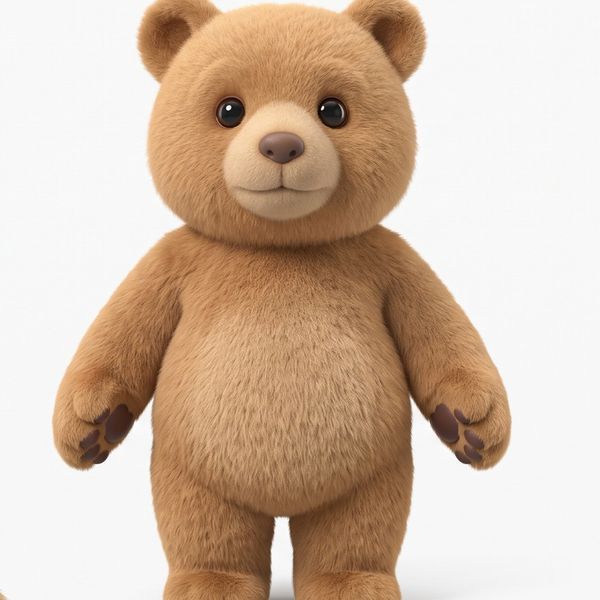
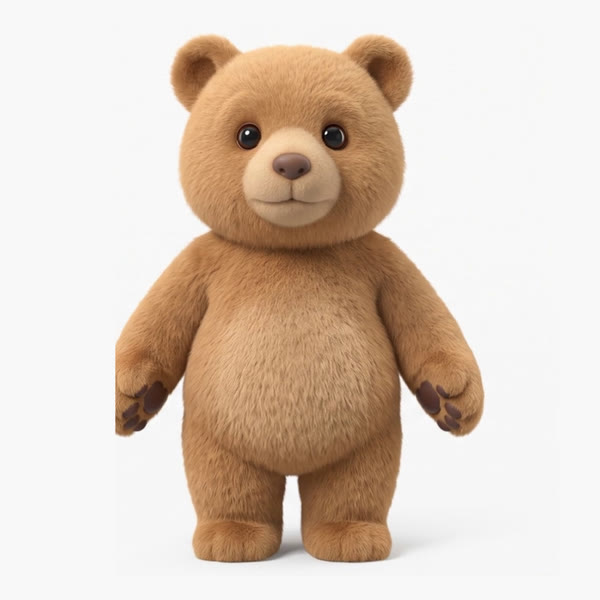
ABC-Bilder: Bär, Katze und Elefant ganz zu sehen (aus den Shorts), altes Kätzchen-Bild entfernt, v18
Claude-Session: https://claude.ai/code/session_017pNMCfqETpozeZAJSfi35U

diff --git a/index.html b/index.html
@@ -8,7 +8,7 @@
 <link rel="stylesheet" href="schriften/schriften.css">
 <link rel="stylesheet" href="gemeinsam.css">
 <style>
-/* Startseite: Intro-Video, dann Elas Zimmer mit Logo, Ela (mit Begrüßung) und Kätzchen, darunter große bunte Kacheln für jeden Bereich */
+/* Startseite: Intro-Video, dann Elas Zimmer mit Logo, Ela (mit Begrüßung), darunter große bunte Kacheln für jeden Bereich */
 #intro{position:fixed;inset:0;z-index:60;background:#f6dccb;display:flex;align-items:center;justify-content:center}
 #intro video{width:100%;height:100%;object-fit:cover}
 @media (orientation:portrait){#intro video{height:64vh}}
@@ -119,7 +119,7 @@
   <footer class="fuss">
     <p data-t="f_safe"></p>
     <p><a href="info.html" data-t="f_parents"></a></p>
-    <p class="version">v17</p>
+    <p class="version">v18</p>
   </footer>
 </div>
 <script src="gemeinsam.js"></script>
@@ -128,7 +128,7 @@
 document.querySelectorAll(".tile.soon").forEach(tile => tile.addEventListener("click", e => {
   e.preventDefault(); say(t("home_soon", { x: t(tile.dataset.soon) }));
 }));
-/* Im Oktober: Hexen-Ela und Kätzchen mit Hexenhut (Halloween-Look), sonst die normale Ela */
+/* Im Oktober: Hexen-Ela (Halloween-Look), sonst die normale Ela */
 const halloween = new Date().getMonth() === 9;
 const HALLO = halloween ? "hw_hello" : "home_hello";
 let elaClip = null;
@@ -149,7 +149,7 @@ if (halloween) {
 const n = sterne();
 if (n > 0) say(t("home_stars", { n }));
 
-/* Ela und ihr Kätzchen sprechen, wenn man sie antippt */
+/* Ela spricht, wenn man sie antippt */
 function hop(el){ el.classList.remove("hop"); void el.offsetWidth; el.classList.add("hop"); }
 document.getElementById("ela-friend").onclick = e => {
   hop(e.currentTarget); say(t(HALLO));

diff --git a/daten.js b/daten.js
@@ -25,7 +25,7 @@ const THEMEN = [
    mit diesem Buchstaben aus THEMEN (z. B. B: Bear + Bat). Siehe karten(L). */
 const ABC_WOERTER = {
   A:{en:"Apple",de:"Apfel",tr:"Elma",foto:"bilder/abc/A-Apple.jpg"}, B:{en:"Bear",de:"Bär",tr:"Ayı",foto:"bilder/abc/B-Bear.jpg"},
-  C:{en:"Cat",de:"Katze",tr:"Kedi",foto:"bilder/katze.jpg"}, D:{en:"Dog",de:"Hund",tr:"Köpek",foto:"bilder/abc/D-Dog.jpg"},
+  C:{en:"Cat",de:"Katze",tr:"Kedi",foto:"bilder/abc/C-Cat.jpg"}, D:{en:"Dog",de:"Hund",tr:"Köpek",foto:"bilder/abc/D-Dog.jpg"},
   E:{en:"Elephant",de:"Elefant",tr:"Fil",foto:"bilder/abc/E-Elephant.jpg"}, F:{en:"Frog",de:"Frosch",tr:"Kurbağa",foto:"bilder/abc/F-Frog.jpg"},
   G:{en:"Giraffe",de:"Giraffe",tr:"Zürafa",foto:"bilder/abc/G-Giraffe.jpg"}, H:{en:"Horse",de:"Pferd",tr:"At",foto:"bilder/abc/H-Horse.jpg"},
   I:{en:"Ice cream",de:"Eis",tr:"Dondurma",foto:"bilder/abc/I-Ice-cream.jpg"}, J:{en:"Jellyfish",de:"Qualle",tr:"Denizanası",foto:"bilder/abc/J-Jellyfish.jpg"},

diff --git a/CLAUDE.md b/CLAUDE.md
@@ -7,7 +7,7 @@ Statische Website auf GitHub Pages, keine Build-Tools, kein Framework.
 - `index.html` – Startseite: zuerst Intro-Video (`bilder/intro.mp4` + Standbild `intro.jpg`, stumm; „Let's go!“ = mit Ton;
   einmal pro Besuch über `sessionStorage` `ela-intro`). Dann Elas Zimmer (`bilder/zimmer.jpg`) mit Logo und Ela (begrüßt),
   KEIN sprechendes Kätzchen im Kreis mehr (auf Wunsch entfernt), darunter große Kacheln zu den Bereichen (Zahlen vorerst ausgeblendet).
-  Unten Fußzeile mit Versionsnummer (`v17`) – bei jeder sichtbaren Änderung hochzählen, damit man im Browser erkennt, ob die neue Version da ist.
+  Unten Fußzeile mit Versionsnummer (`v18`) – bei jeder sichtbaren Änderung hochzählen, damit man im Browser erkennt, ob die neue Version da ist.
 - `malbuch.html` – Malbuch mit **Themen** (Halloween aktiv; Christmas, Animals, Sweets, Ocean sind vorbereitet, aber ausgeblendet, bis sie Bilder haben).
   Bild wählen, Farbe wählen, in eine Fläche tippen → füllt sich. Zusätzlich Pinsel, Undo, Neu, Speichern.
   „Print“ (Knopf mit dem Halloween-Drucker `bilder/drucker.png` aus den Videos) druckt das leere Bild als A4-Blatt
@@ -91,8 +91,9 @@ Statische Website auf GitHub Pages, keine Build-Tools, kein Framework.
 - Farben aus dem Logo: Pink (`--pink`) + Regenbogen (Rot, Orange, Gelb, Grün, Blau, Lila), heller rosa Hintergrund.
   Halloween-Farben nur im Halloween-Thema, nicht für die ganze App.
 - Maskottchen: Ela mit Schürze (`bilder/ela-rund.png`); Hexen-Ela (`bilder/ela-hexe.png`) nur bei Halloween.
-  Elas Kätzchen (`bilder/katze.jpg`). Den Regenbogen-Pinsel mit Gesicht NICHT mehr verwenden (auf Wunsch entfernt).
-  der Halloween-Drucker (`bilder/drucker.png`, „Print“-Knopf). ABC-Bilder im 3D-Stil der Videos: `bilder/abc/<L>-<Word>.jpg` (600×600).
+  Den Regenbogen-Pinsel mit Gesicht NICHT mehr verwenden (auf Wunsch entfernt).
+  der Halloween-Drucker (`bilder/drucker.png`, „Print“-Knopf). ABC-Bilder im 3D-Stil der Videos: `bilder/abc/<L>-<Word>.jpg` (600×600), das ganze Tier mit etwas Rand (nichts abgeschnitten).
+  Quelle z. B. die Shorts „Can you guess the letter?“: Bild aus Sekunde 0.3, `crop=680:700:200:540,pad=760:760:40:30:color=0xf8f8f8,scale=600:600`.
 - Keine Fotos von echten Kindern auf der Webseite (nur die gezeichnete Ela).
 - Schriften: "Baloo 2" (Überschriften), "Nunito" (Text). Große Knöpfe für Finger, kein horizontales Scrollen.
 - Ausmalbilder: Kawaii, dicke runde Linien, magische Augen (weißer Kreis + kleiner Glitzerstern), Wimpern, KEINE Bäckchen.
